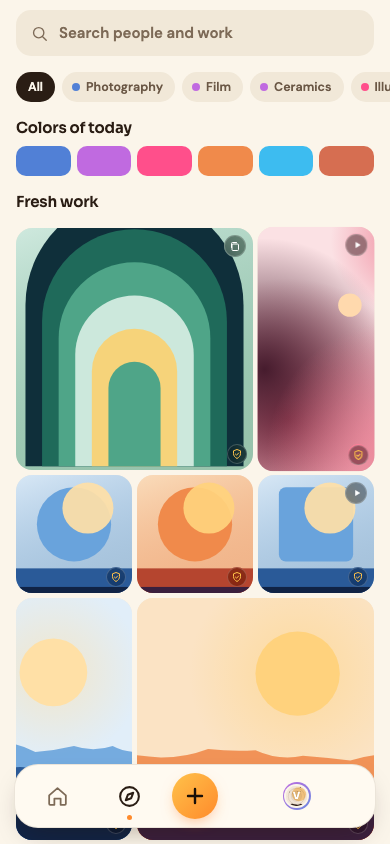
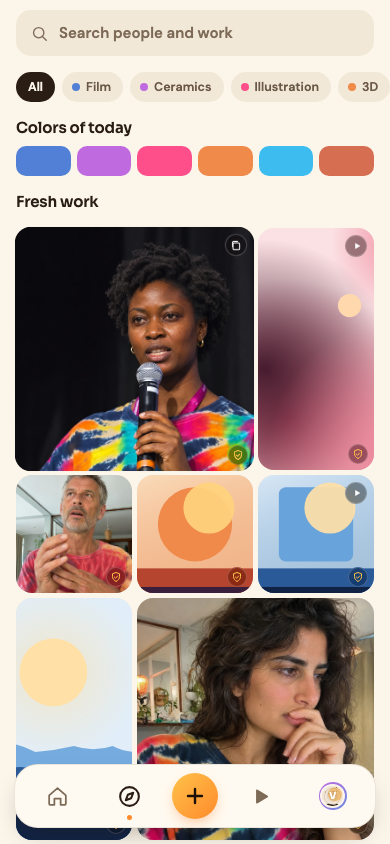
brand: link card and demo feed show real photo posts by invented people
Founder's own photos with the person swapped (GPT Image 2.6 Sunburst on Runway):
Mina (stage carousel), Jonas, Noor, with face avatars. Demo media can now be
mock:photo/<name>, bundled from apps/mobile/assets/demo.

diff --git a/apps/mobile/src/lib/mock.ts b/apps/mobile/src/lib/mock.ts
@@ -13,7 +13,7 @@ const invitesRequired = process.env.EXPO_PUBLIC_MOCK_INVITES === "1";
 export const MOCK_INVITE_CODE = "DAYLIGHT";
 
 const people: [string, string, string, string][] = [
-  ["mina", "Mina Okafor", "Street and light photographer. Lagos, then Lisbon. Chasing the hour after sunrise.", "Photography"],
+  ["mina", "Mina Okafor", "Filmmaker and speaker. Lagos, then Lisbon. Making things that keep your name on them.", "Film"],
   ["jonas_w", "Jonas Weber", "Ceramics, glazes and kiln notes. Everything here is thrown by hand.", "Ceramics"],
   ["tamsin", "Tamsin Reyes", "Illustrator. Quiet scenes, loud colour.", "Illustration"],
   ["koji", "Koji Arai", "Short films and the stills between them.", "Film"],
@@ -28,15 +28,16 @@ people.forEach(([handle, displayName, bio, category], i) => {
   users.set(handle, { id: `u_${i + 1}`, handle, displayName, bio, avatarUrl: null, createdAt: iso(60 * 24 * (40 + i)), category });
 });
 users.get("noor")!.role = "mod";
+for (const h of ["mina", "jonas_w", "noor"]) users.get(h)!.avatarUrl = `mock:photo/avatar-${h}`;
 users.get("mina")!.role = "creator";
 
 type Seed = [string, string, number, number, number, ("image" | "video")?];
 const seeds: Seed[] = [
-  ["mina", "First light on the Tagus. Shot at 6:12, no edits besides crop.", 4, 5, 8],
-  ["jonas_w", "Tenmoku test tiles, cone 10. The iron really came through this time.", 1, 1, 55],
+  ["mina", "Spoke to a full room today. Thank you for every single question", 4, 5, 8],
+  ["jonas_w", "Opened the kiln and every glaze held. First time all year", 4, 5, 55],
   ["tamsin", "Window seat, late afternoon. Gouache on cotton paper.", 3, 4, 140],
   ["koji", "Frame from the harbour film. 16mm, expired stock.", 16, 9, 260, "video"],
-  ["noor", "Paper canyon, lit from the left. Three days of cutting.", 4, 5, 380],
+  ["noor", "Day three of the paper canyon. Still deciding where the light goes", 4, 5, 380],
   ["ila_makes", "Madder root, indigo and a lot of patience.", 1, 1, 520],
   ["odd_type", "Lowercase g, version nine. The ear finally sits right.", 4, 3, 700],
   ["bram", "Walnut stool, oiled this morning. Joined without a single screw.", 3, 4, 910],
@@ -69,6 +70,8 @@ function makeMedia(signer: string, w: number, h: number, kind: "image" | "video"
   };
 }
 
+const photoFor: Record<string, string> = { p_100: "mina-1", p_101: "jonas-1", p_104: "noor-1" };
+
 const posts: Post[] = seeds.map(([handle, caption, w, h, ago, kind], i) => {
   const author = users.get(handle)!;
   const createdAt = iso(ago);
@@ -83,11 +86,11 @@ const posts: Post[] = seeds.map(([handle, caption, w, h, ago, kind], i) => {
     commentCount: 0,
     viewCount: 0,
     viewer: { liked: false },
-    media: [makeMedia(handle, w * 400, h * 400, kind ?? "image", `mock:art/${id}`, createdAt)],
+    media: [makeMedia(handle, w * 400, h * 400, kind ?? "image", photoFor[id] ? `mock:photo/${photoFor[id]}` : `mock:art/${id}`, createdAt)],
   };
 });
-posts[0].media.push(makeMedia("mina", 1600, 2000, "image", "mock:art/p_100b", posts[0].createdAt));
-posts[0].media.push(makeMedia("mina", 1600, 2000, "image", "mock:art/p_100c", posts[0].createdAt));
+posts[0].media.push(makeMedia("mina", 1600, 2000, "image", "mock:photo/mina-2", posts[0].createdAt));
+posts[0].media.push(makeMedia("mina", 1600, 2000, "image", "mock:photo/mina-3", posts[0].createdAt));
 
 const sessions = new Map<string, string>();
 const emails = new Map<string, string>();

diff --git a/apps/mobile/src/components/Media.tsx b/apps/mobile/src/components/Media.tsx
@@ -4,6 +4,7 @@ import { Image } from "expo-image";
 import { VideoView, useVideoPlayer } from "expo-video";
 import { useEvent } from "expo";
 import { Art } from "./Art";
+import { imageSource, isMockArt } from "@/lib/mockPhotos";
 import { Icon } from "./Icon";
 import { Glass } from "./ui";
 import { useTheme } from "@/state/theme";
@@ -16,10 +17,10 @@ import { cueAt, loadCaptions, type Cue } from "@/lib/captions";
 
 export function MediaImage({ media, style, fit = "cover", playSize = 48 }: { media: Media; style?: StyleProp<ViewStyle>; fit?: "cover" | "contain"; playSize?: number }) {
   const { c } = useTheme();
-  const art = media.url.startsWith("mock:");
+  const art = isMockArt(media.url);
   return (
     <View style={[{ overflow: "hidden", backgroundColor: c.sunk }, style]}>
-      {art ? <Art seed={media.url} /> : media.kind === "video" ? <VideoStill media={media} fit={fit} /> : <Image source={{ uri: media.url }} alt={media.alt || undefined} style={{ width: "100%", height: "100%" }} contentFit={fit} transition={180} />}
+      {art ? <Art seed={media.url} /> : media.kind === "video" ? <VideoStill media={media} fit={fit} /> : <Image source={imageSource(media.url)} alt={media.alt || undefined} style={{ width: "100%", height: "100%" }} contentFit={fit} transition={180} />}
       {media.kind === "video" && playSize > 0 && (
         <View pointerEvents="none" style={{ position: "absolute", top: 0, right: 0, bottom: 0, left: 0, alignItems: "center", justifyContent: "center" }}>
           <Glass style={{ width: playSize, height: playSize, borderRadius: playSize / 2, paddingLeft: 3 }}>

diff --git a/apps/mobile/src/components/Avatar.tsx b/apps/mobile/src/components/Avatar.tsx
@@ -2,6 +2,7 @@ import { Text, View } from "react-native";
 import { Image } from "expo-image";
 import { LinearGradient } from "expo-linear-gradient";
 import { Art } from "./Art";
+import { imageSource } from "@/lib/mockPhotos";
 import { creatorColors, font } from "@/lib/theme";
 import { useTheme } from "@/state/theme";
 import type { User } from "@/lib/types";
@@ -17,7 +18,7 @@ export function Avatar({ user, size = 40, ring = true }: { user: Who; size?: num
   const inner = size - pad * 2 - gap * 2;
   const face = (
     <View style={{ width: inner, height: inner, borderRadius: inner / 2, overflow: "hidden", alignItems: "center", justifyContent: "center", backgroundColor: c.sunk }}>
-      {user.avatarUrl ? <Image source={{ uri: user.avatarUrl }} style={{ width: inner, height: inner }} /> : <Art seed={`avatar:${user.handle}`} />}
+      {user.avatarUrl ? <Image source={imageSource(user.avatarUrl)} style={{ width: inner, height: inner }} /> : <Art seed={`avatar:${user.handle}`} />}
       {!user.avatarUrl && <Text style={{ fontFamily: font.display.semibold, fontSize: inner * 0.46, color: "#fff", textShadowColor: "rgba(0,0,0,0.3)", textShadowRadius: 4 }}>{initial}</Text>}
     </View>
   );

diff --git a/apps/mobile/src/lib/mockPhotos.ts b/apps/mobile/src/lib/mockPhotos.ts
@@ -1,0 +1,17 @@
+// Demo photos for mock mode: Roy's own photos with the person swapped for an invented one (brand/content/sources.json).
+const photos: Record<string, number> = {
+  "mina-1": require("../../assets/demo/mina-1.jpg"),
+  "mina-2": require("../../assets/demo/mina-2.jpg"),
+  "mina-3": require("../../assets/demo/mina-3.jpg"),
+  "jonas-1": require("../../assets/demo/jonas-1.jpg"),
+  "noor-1": require("../../assets/demo/noor-1.jpg"),
+  "avatar-mina": require("../../assets/demo/avatar-mina.jpg"),
+  "avatar-jonas_w": require("../../assets/demo/avatar-jonas_w.jpg"),
+  "avatar-noor": require("../../assets/demo/avatar-noor.jpg"),
+};
+
+const PREFIX = "mock:photo/";
+
+export const isMockArt = (url: string) => url.startsWith("mock:") && !url.startsWith(PREFIX);
+
+export const imageSource = (url: string) => (url.startsWith(PREFIX) ? photos[url.slice(PREFIX.length)] : { uri: url });
